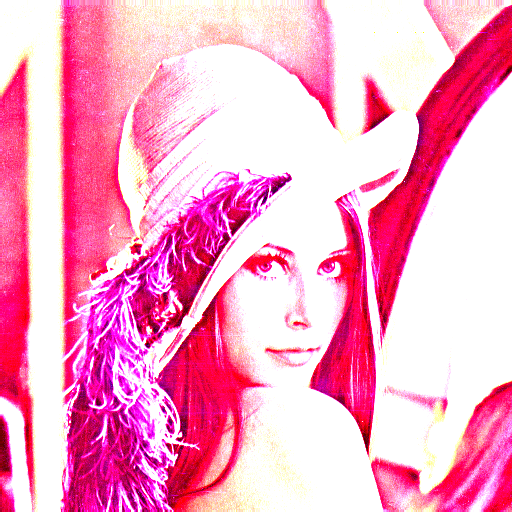
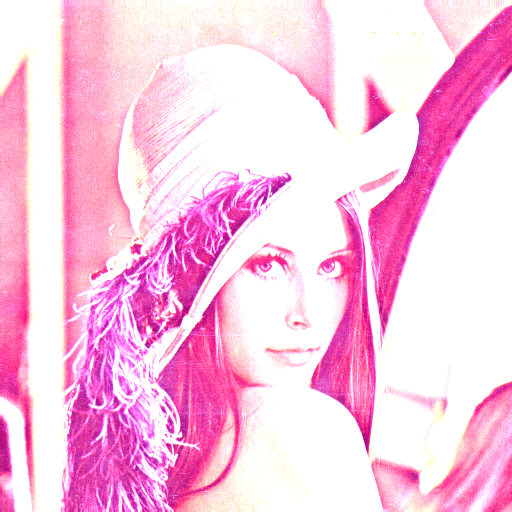
Added percent black selection

diff --git a/paintapp.py b/paintapp.py
@@ -153,7 +153,7 @@ class Window(QMainWindow):
         self.equalize_histogram_button.clicked.connect(self.equalize_histogram)
 
         self.stretch_histogram_button = QPushButton("Stretch histogram", self)
-        self.stretch_histogram_button.setGeometry(750, 550, 100, 30)
+        self.stretch_histogram_button.setGeometry(750, 570, 100, 30)
         self.stretch_histogram_button.clicked.connect(self.stretch_histogram)
 
         self.apply_threshold_button = QPushButton("Apply threshold", self)
@@ -254,6 +254,14 @@ class Window(QMainWindow):
         self.threshold_label.setGeometry(QtCore.QRect(400, 580, 80, 30))
         self.threshold_label.setAlignment(Qt.AlignTop)
 
+        self.threshold_value_label = QLabel("Value:", self)
+        self.threshold_value_label.setGeometry(QtCore.QRect(400, 602, 80, 30))
+        self.threshold_value_label.setAlignment(Qt.AlignTop)
+
+        self.threshold_percentage_label = QLabel("Percent:", self)
+        self.threshold_percentage_label.setGeometry(QtCore.QRect(480, 602, 80, 30))
+        self.threshold_percentage_label.setAlignment(Qt.AlignTop)
+
         #line edit
         self.point_start_x1_edit = QLineEdit(self)
         self.point_start_x1_edit.setGeometry(QRect(1080, 130, 30, 30))
@@ -288,8 +296,12 @@ class Window(QMainWindow):
         self.histogram_range_b_edit.setText("255")
 
         self.threshold_edit = QLineEdit(self)
-        self.threshold_edit.setGeometry(QRect(400, 600, 30, 20))
+        self.threshold_edit.setGeometry(QRect(440, 600, 30, 20))
         self.threshold_edit.setText("120")
+
+        self.percent_select_edit = QLineEdit(self)
+        self.percent_select_edit.setGeometry(QRect(530, 600, 30, 20))
+        self.percent_select_edit.setText("50")
 
         # select box
         self.size_select_box = QComboBox(self)
@@ -326,6 +338,9 @@ class Window(QMainWindow):
         rgb_regex = QtCore.QRegExp("([0-9]|[1-8][0-9]|9[0-9]|1[0-9]{2}|2[0-4][0-9]|25[0-5])") # value between 0 and 255
         rgb_validator = QRegExpValidator(rgb_regex)
 
+        percent_regex = QtCore.QRegExp("([0-9]|[1-8][0-9]|9[0-9]|100)") # value between 0 and 100
+        percent_validator = QRegExpValidator(percent_regex)
+
         self.point_start_x1_edit.setValidator(x_validator)
         self.point_end_x2_edit.setValidator(x_validator)
 
@@ -339,6 +354,7 @@ class Window(QMainWindow):
         self.histogram_range_a_edit.setValidator(rgb_validator)
 
         self.threshold_edit.setValidator(rgb_validator)
+        self.percent_select_edit.setValidator(percent_validator)
 
         # sections visibility
         self.setTextCreatorSectionVisibility(False)
@@ -372,6 +388,49 @@ class Window(QMainWindow):
             msg.setStandardButtons(QMessageBox.Ok)
             msg.exec_()
 
+    def percent_black(self):
+        percent = self.percent_select_edit.text()
+        if percent:
+            percent = int(percent)/100
+            print(percent)
+            img = Image.open("out/greyscale.jpg", "r")
+            pix_val = list(img.getdata())
+            gray = []
+            for i in range(len(pix_val)):
+                gray.append(pix_val[i])
+            histogram = self.count_pixels_histogram(gray)
+            pixel_count = img.width * img.height
+
+            sum = 0
+            threshold = 0
+            for i in range(256):
+                sum += histogram[i]
+                threshold += 1
+                if sum >= pixel_count * percent:
+                    break
+
+            for i in range(len(pix_val)):
+                if pix_val[i] < threshold:
+                    pix_val[i] = 0
+                elif pix_val[i] >= threshold:
+                    pix_val[i] = 255
+
+            result_img = []
+            for i in range(len(pix_val)):
+                result_img.append(pix_val[i])
+
+            threshold_img = Image.new('L', img.size)
+            threshold_img.putdata(result_img)
+            threshold_img.save("out/pbs_threshold.jpg")
+            self.setPhotoFromPath("out/pbs_threshold.jpg")
+        else:
+            msg = QMessageBox()
+            msg.setIcon(QMessageBox.Warning)
+            msg.setText("Enter percent value!")
+            msg.setWindowTitle("Warning!")
+            msg.setStandardButtons(QMessageBox.Ok)
+            msg.exec_()
+
     def apply_threshold(self):
         index = int(self.threshold_select_box.currentIndex())
         path = self.path_label.text()
@@ -381,7 +440,7 @@ class Window(QMainWindow):
             if index == 0:
                 self.value_threshold()
             elif index == 1:
-                pass
+                self.percent_black()
             elif index == 2:
                 pass
         else:
@@ -404,7 +463,6 @@ class Window(QMainWindow):
         greyscale_img = Image.new('L', img.size)
         greyscale_img.putdata(result_greyscale)
         greyscale_img.save("out/greyscale.jpg")
-        self.setPhotoFromPath("out/greyscale.jpg")
 
 
     def plot_histogram(self):
